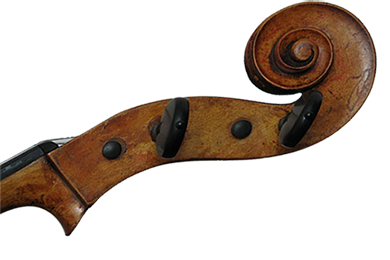
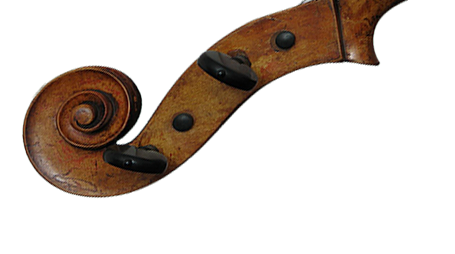
updated workFull images

diff --git a/css/main.css b/css/main.css
@@ -231,6 +231,7 @@ position: absolute;
 width: 900%;
 height: 875px;
 z-index: 4;
+top:0;
 }
 
 #layer2 {
@@ -260,9 +261,8 @@ z-index: 6;
 float: left;
 width: 11.11%;
 margin-right:22.22%;
-margin-top:.3%;
 height: 875px;
-background:url("img/cello_scroll.png")top left no-repeat;
+background:url("")top left no-repeat;
 }
 
 #layer1 .work3 {
@@ -291,7 +291,7 @@ float: left;
 width: 16.66%;
 margin-right: 16.66%;
 height: 875px;
-background: url('img/work1.png') center 160px no-repeat;
+background: url('img/work1.png') center 175px no-repeat;
 }
 
 #layer2 .work3 {
@@ -299,7 +299,7 @@ float: left;
 width: 16.66%;
 margin-right: 16.66%;
 height: 875px;
-background: url('img/work3.png') center 140px no-repeat;
+background: url('img/work3.png') center 145px no-repeat;
 
 }
 
@@ -337,8 +337,8 @@ margin-left: 20%;
 
 
 #hero h2 {
-    font-family: 'Junction', sans-serif;
- color: #000;
+font-family: 'Junction', sans-serif;
+color: #000;
 font-weight: normal;
 font-size: 30px;
 text-align: center;
@@ -355,16 +355,18 @@ p{
 
 #hero .desc {
 position: absolute;
-top: 650px;
+top: 670px;
 left: 50%;
 width: 560px;
 margin-left: -280px;
 z-index: 6;
 }
 
+
 a {
     cursor: pointer;
     text-align: center;
+
 }
 
 
@@ -389,6 +391,7 @@ background:url('img/close.png') no-repeat;
     display:none;
     z-index: 7;
     position:fixed;
+    top:0;
 }
 
 .inner {
@@ -403,16 +406,20 @@ background:url('img/close.png') no-repeat;
 }   
 
 h3 {
-    color:white;
-    font-family: 'Josefin Slab', sans-serif;
-    text-align: center;
-    margin-top:5%;
-    z-index:10;
+font-family: 'Junction', sans-serif;
+color: white;
+text-align: center;
+font-weight: normal;
+font-size: 30px;
+margin-top:5%;
+z-index:10;
 }
 
 #vintageFull p {
     color:white;
-    font-family: 'Josefin Slab', sans-serif;
+    font-family: 'Junction', sans-serif;
+    font-weight: normal;
+    font-size: 15px;
     z-index:10;
 }
 

diff --git a/index.html b/index.html
@@ -78,7 +78,7 @@
 						<h3>Vintage Wine & Market </h3>
 							<p>A simple, one-page promo for an upcoming Wine and Market based in Los-Angeles, CA. A fully-responsive design allowing for instant mobile compatibility and symetrical display across multiple sized viewports, and utilizes parse.js for email storage.</p>
 
-								<img src="img/vintagefull.png"/>
+								<img src="img/vintagefull.jpg"/>
 					</div>	
 				</div>
 
@@ -87,7 +87,7 @@
 						<p> Chicago-based cellist Jeremy David Ward is a performer, teacher, clinician, and historical performance expert.</p>
 						<p>
 							<a id="linkJeremy">Take a closer look</a>
-								<img src="img/arrow.png">
+								<img src="img/arrow.png"/>
 						<p>
 				</div>
 
@@ -99,8 +99,10 @@
 						<div class="inner">
 							<h3>Jeremy David Ward | Violone & Violincello </h3>
 								<p>A simple, one-page promo for an upcoming Wine and Market based in Los-Angeles, CA. A fully-responsive design allowing for instant mobile compatibility and symettrical display across multiple sized viewports, and utilizes parse.js for email storage.</p>
-						</div>
+						
 
+						<img src="img/jeremyhome.jpg"/>
+					</div>
 				</div>
 
 				<div class="desc" id="converge">
